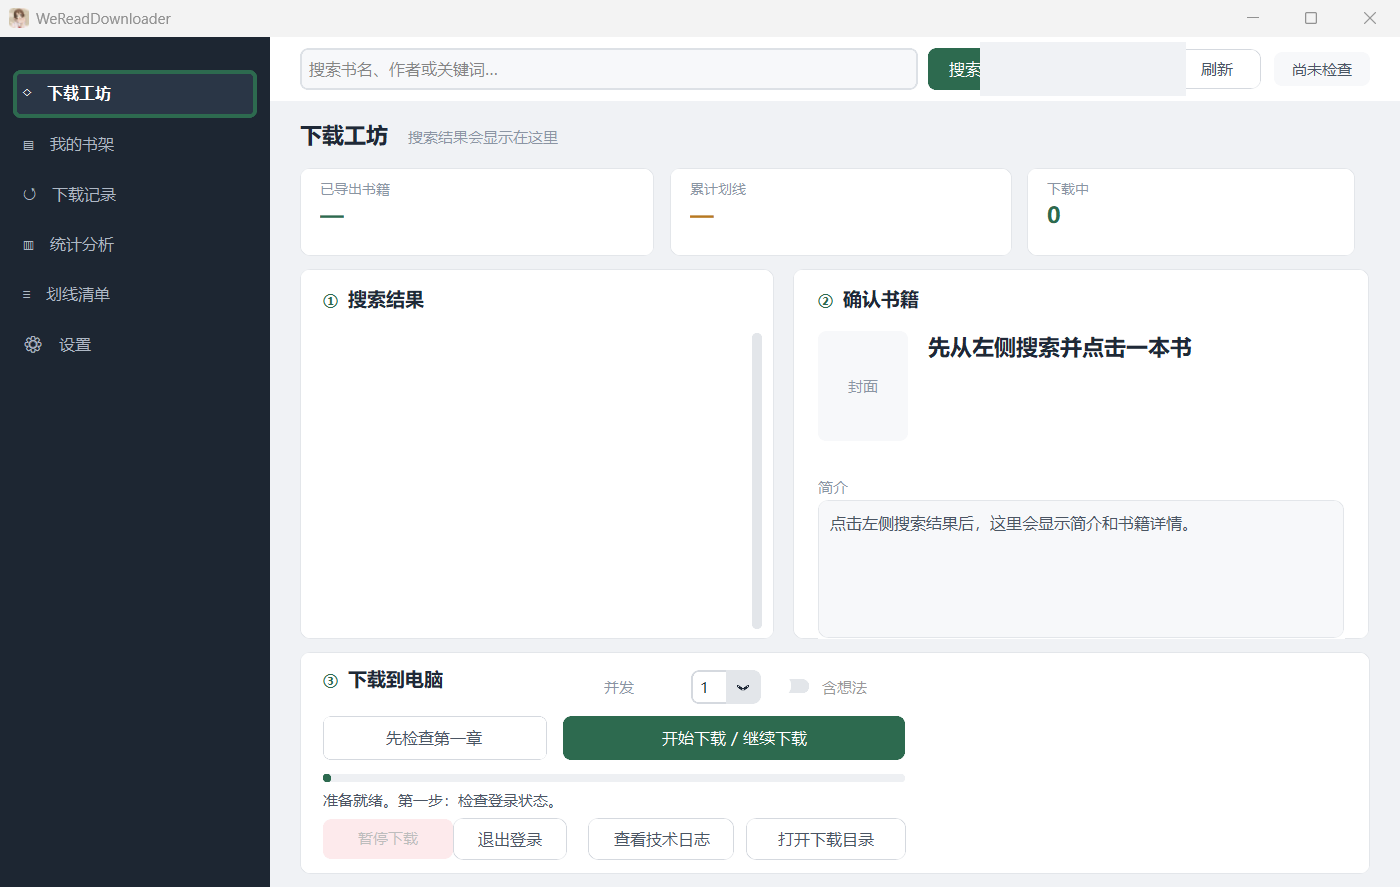
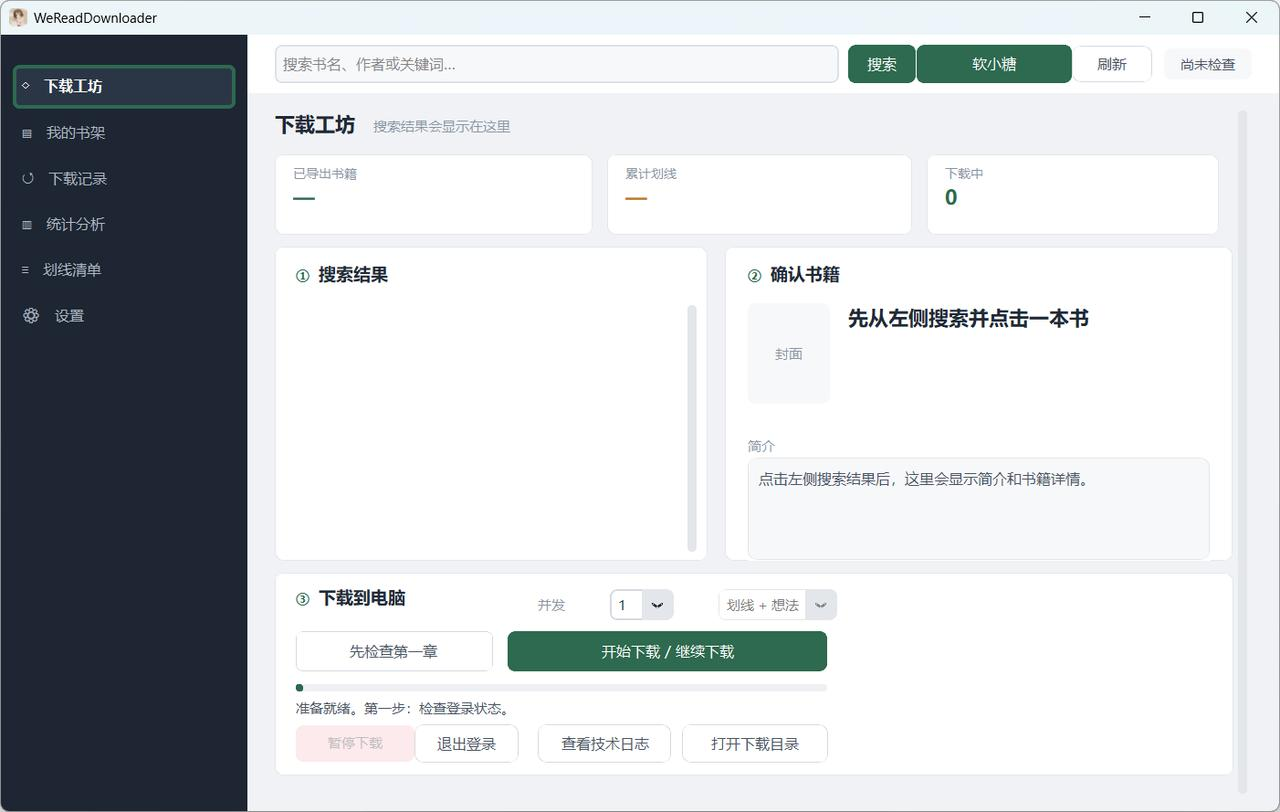
Release 1.0.4: W10 liveness fix, README refresh, installer without the component page
* docs: cross-reference the Kindle doc's deployment details for the importer

* docs: route B wording follows the dev-status marker

* fix: probe Windows liveness without signalling the process group

process_is_alive() used os.kill(pid, 0) to check whether the pid recorded in
export.lock was still running. On Windows signal 0 is CTRL_C_EVENT, so CPython
translates that call into GenerateConsoleCtrlEvent(CTRL_C_EVENT, pid) -- it
sends a real Ctrl+C to the pid's process group instead of probing it. When that
pid shared the console group of the process holding the lock, merely checking
the lock killed the checker: CI aborted mid-suite twice with KeyboardInterrupt
after only 188 of 401 cases.

This is not only a test problem. The same function decides whether a stale lock
left behind by a killed worker gets taken over, so on a user machine it could
deliver Ctrl+C to the application itself.

The Windows path now opens the process with SYNCHRONIZE and waits on the handle
with a zero timeout: WAIT_OBJECT_0 means it has exited, WAIT_TIMEOUT means it is
still running. A handle that cannot be opened is disambiguated by GetLastError
-- access denied means the process exists under another account and is kept
conservatively alive, anything else means it is gone. POSIX keeps os.kill, where
signal 0 is the correct probe.

test_desktop_bundle.py also skipped the suite in collection when the external
Kindle plugin tree is absent, which read as a code failure; it now skips with a
[…]

diff --git a/tests/test_disk_edge_cases.py b/tests/test_disk_edge_cases.py
@@ -57,6 +57,7 @@ def patched_run(cmd, *args, **kwargs):
 subprocess.run = patched_run
 
 # Import functions under test
+import weread_desktop
 from weread_desktop import (
     _set_private_acl,
     secure_output_directory,
@@ -781,6 +782,41 @@ class TestDiscoverCheckpointFiles(unittest.TestCase):
 
         found = discover_checkpoint_files(workspace, chapters)
         self.assertIn("ch1", found)
+
+
+class TestProcessIsAlive(unittest.TestCase):
+    """The lock's liveness probe must not signal the process it is probing.
+
+    On Windows, signal 0 is CTRL_C_EVENT: CPython's os.kill turns the probe into
+    GenerateConsoleCtrlEvent, which delivers a real Ctrl+C to the pid's process
+    group. The export lock records the pid of whichever process was exporting, so
+    on a runner whose own shell shares that group, merely checking the lock
+    killed the test run mid-suite (seen twice in CI: KeyboardInterrupt inside
+    process_is_alive). The Windows path therefore has to go through
+    OpenProcess/WaitForSingleObject and must never call os.kill.
+    """
+
+    def test_nt_probe_does_not_call_os_kill(self):
+        if os.name != "nt":
+            self.skipTest("Windows-specific behaviour")
+        source = Path(weread_desktop.__file__).read_text(encoding="utf-8")
+        self.assertIn("_nt_process_signaled", source,
+                      "the Windows liveness probe helper is gone")
+        probe = source.split("def _nt_process_signaled")[1].split("def ")[0]
+        # Skip the docstring: it names os.kill precisely to explain why it is banned.
+        body = probe.split('"""')[2] if probe.count('"""') >= 2 else probe
+        code = "\n".join(line for line in body.splitlines()
+                         if not line.lstrip().startswith("#"))
+        self.assertNotIn("os.kill", code,
+                         "the Windows probe must not use os.kill: signal 0 sends Ctrl+C there")
+
+    def test_running_process_is_alive(self):
+        self.assertTrue(process_is_alive(os.getpid()))
+
+    def test_dead_process_is_not_alive(self):
+        # A pid that cannot exist: 0 is invalid and the API rejects negatives.
+        self.assertFalse(process_is_alive(0))
+        self.assertFalse(process_is_alive(-1))
 
 
 if __name__ == "__main__":

diff --git a/weread/weread_desktop.py b/weread/weread_desktop.py
@@ -1199,14 +1199,47 @@ def process_started_at(pid: int) -> float | None:
             except Exception: pass
 
 
+def _nt_process_signaled(pid: int) -> bool | None:
+    """True if the process is still alive, False if it has exited, None if unknown.
+
+    Windows-only: opens the process and waits on the handle. os.kill(pid, 0) must
+    not be used here -- on Windows signal 0 is CTRL_C_EVENT, so CPython calls
+    GenerateConsoleCtrlEvent against the pid, which delivers a real Ctrl+C to the
+    whole process group rather than probing liveness. When the lock file's pid
+    belongs to the runner's own console group (the CI case), checking a lock
+    therefore killed the test run mid-suite.
+    """
+    SYNCHRONIZE = 0x00100000
+    kernel = ctypes.WinDLL("kernel32", use_last_error=True)
+    kernel.OpenProcess.argtypes = [ctypes.c_uint32, ctypes.c_int, ctypes.c_uint32]
+    kernel.OpenProcess.restype = ctypes.c_void_p
+    kernel.CloseHandle.argtypes = [ctypes.c_void_p]
+    handle = kernel.OpenProcess(SYNCHRONIZE, 0, pid)
+    if not handle:
+        # Access denied means the process exists but belongs to someone else;
+        # anything else means it is gone.
+        return True if ctypes.get_last_error() == 5 else False
+    try:
+        # WaitForSingleObject returns immediately (WAIT_OBJECT_0) once the
+        # process has exited, and times out (WAIT_TIMEOUT) while it is running.
+        return kernel.WaitForSingleObject(handle, 0) != 0
+    finally:
+        kernel.CloseHandle(handle)
+
+
 def process_is_alive(pid: int, started: int | None = None) -> bool:
     if pid <= 0: return False
-    try:
-        os.kill(pid, 0)
-    except PermissionError:
-        pass
-    except OSError:
-        return False
+    if os.name == "nt":
+        alive = _nt_process_signaled(pid)
+        if alive is None: return True
+        if not alive: return False
+    else:
+        try:
+            os.kill(pid, 0)
+        except PermissionError:
+            pass
+        except OSError:
+            return False
     if started and os.name == "nt":
         created = process_started_at(pid)
         # If Windows cannot query process age, conservatively retain the lock.

diff --git a/tests/test_desktop_bundle.py b/tests/test_desktop_bundle.py
@@ -12,6 +12,14 @@ sys.path.insert(0, str(Path(__file__).resolve().parent.parent / "weread"))
 PLUGIN = Path(__file__).resolve().parents[2] / "Kindle" / "03_插件源码与解压文件" / "weread.koplugin"
 BUNDLE = PLUGIN / "weread" / "lib" / "desktop_bundle.lua"
 
+# 这个用例读的是仓库外部的 Lua 插件树（它在 Kindle 目录里，不随仓库分发）。缺席时
+# 必须跳过而不是崩：否则 pytest 在收集阶段就 FileNotFoundError，报出来像"代码坏了"，
+# 实际只是这台机器/这个 runner 没有那个目录。与 test_desktop_bundle_lua.py 同一约定。
+if not BUNDLE.is_file():
+    import pytest
+    pytest.skip("本机没有外部 Lua 插件目录（可用 WEREAD_KINDLE_ROOT 指定）",
+                allow_module_level=True)
+
 
 def test_bundle_schema_validation():
     try:

diff --git a/README.md b/README.md
@@ -12,14 +12,17 @@
 
 从 [Releases](../../releases) 下载 `WeReadDownloader-Setup.exe`，双击安装。
 
-安装向导只有一个选项：装到 `C:\Program Files\WeReadDesktop`，并在桌面放一个名为
-**WeReadDownloader** 的快捷方式。
+安装向导只有两个选项：装到哪（默认 `C:\Program Files\WeReadDownloader`），
+以及要不要在桌面放快捷方式。装完即用，不需要选组件，也没有网页版。
 
 ---
 
 ## 怎么用
 
-界面分三步，从左到右、从上到下依次完成：
+左侧是导航，下载相关的都在「下载工坊」页；「我的书架」「下载记录」「统计分析」
+「划线清单」是另外四个页，下面分别说。
+
+「下载工坊」页本身分三步，从左到右、从上到下依次完成：
 
 ![下载工坊](docs/screenshots/01-workflow.png)
 
@@ -82,21 +85,15 @@
 
 ## 导入 Kindle
 
-导出的 `书名 - full.weread.zip` 就是给 KOReader 用的。**Kindle 原生系统不支持它**，
-必须配合 KOReader 使用。两条路，按你是否装了完整版微信读书插件选择：
+导出的 `书名 - full.weread.zip` 是给 KOReader 用的。**Kindle 原生系统不支持它**，
+需要配合 KOReader 的微信读书相关插件使用。
 
-### 方式 A：装了 weread.koplugin（完整版插件用户）
+> **现状说明**：KOReader 侧的导入插件（含独立迷你导入器）仍在开发打磨中，
+> 暂未发布可用版本。现在导出的 `.weread.zip` 可以先留好，等插件发布后直接导入；
+> EPUB 正文本身（`书名 - full.epub`）不依赖插件，拷进 KOReader 就能看，只是
+> 划线想法的回贴暂不可用。
 
-1. 把 `.weread.zip` 弄到 KOReader 能读到的位置（数据线拷贝、网盘同步均可）
-2. KOReader 菜单 → **WeRead → 导入桌面端微信读书数据**
-3. 选中刚拷进去的 `.weread.zip` 或解压后的文件夹
-
-### 方式 B：没装微信读书插件 —— 独立导入器（开发中）
-
-一个只做导入的迷你插件（290 KB，无账号、不联网）正在开发中，完成后会
-发布到 [Releases](../../releases)。目前请先用方式 A。
-
-### 原理是什么
+### 包里有什么
 
 普通 EPUB 的划线写在书里的标注层，但微信读书的划线多带了两样东西，EPUB 装不下：
 一条划线可能还挂着你写的笔记，以及它在原文里的落点（一段字符区间，不是页码）。
@@ -110,7 +107,7 @@
 | `manifest.json` | 章节清单、缺失说明 |
 | `bundle.json` | 索引，指明上面三个文件叫什么 |
 
-导入器读 `bundle.json`，取出书装进书库，再按 `reviews.jsonl` 里的区间把
+导入器发布后，会读 `bundle.json` 取出书装进书库，再按 `reviews.jsonl` 里的区间把
 划线贴回去，点开划线还能看到你当时写的笔记。
 
 ---
@@ -163,18 +160,16 @@
 
 ## 已知限制
 
+- **古文注释的「注」角标不支持**：像《后汉书》这类书，原文里夹带的「注」是
+  微信读书的特殊排版元素，导出的 EPUB 里只保留正文，注角标和注的内容不会出现。
 - 一本书同一时间只能有一个导出任务在跑
 - 标注选「只要划线」时，想法数据仍会从服务器拉取（划线落点依赖它），只是不写入成品
-- 「彻底清除凭证」选项会连基础凭证一起删，之后需重新扫码 + 重新抄 `api_key`（见登录一节）
+- 「彻底清除凭证」会连基础凭证一起删，之后需重新扫码 + 重抄一次 `api_key`（见登录一节）
 
 ### 以后也许会做的
 
 - **排队下载**：一次勾多本，按顺序依次下载。现在只能一本跑完再开下一本。导出锁是按书
   放的（`exports/书名-ID/export.lock`），不同书之间并不冲突，所以排队在技术上没有障碍，
   缺的是队列本身。
-- **并发可以更高**：章节级并发（`--jobs`，界面上的「并发」框）已经支持 1–4，而且每个
-  线程有独立的 LuaRuntime。之所以默认 1、建议不超过 4，是因为微信读书会限流。程序已经
-  会在被限流时自动降并发、退避重试，连续成功后再逐步升回去。往上调主要是和限流赌，
-  不建议。
-- **「彻底清除凭证」选项**：登录时程序会自动维护两个凭证文件（1.0.3 起）。「退出登录」
-  的完全清理会连基础凭证一起删，之后重新扫码 + 重抄一次 `api_key` 即可。
+- **古文注释**：「注」角标及其内容能否导入 EPUB，取决于 CRE 引擎对这类微信读书
+  特殊元素的支持程度，需要调研。
